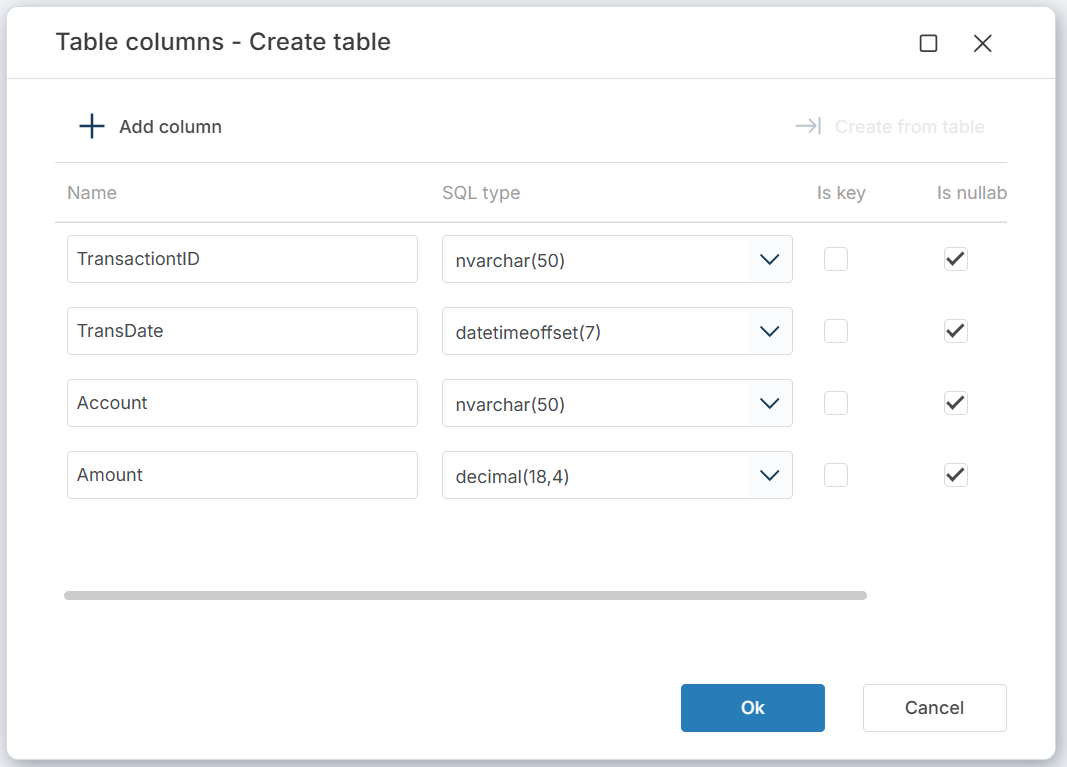
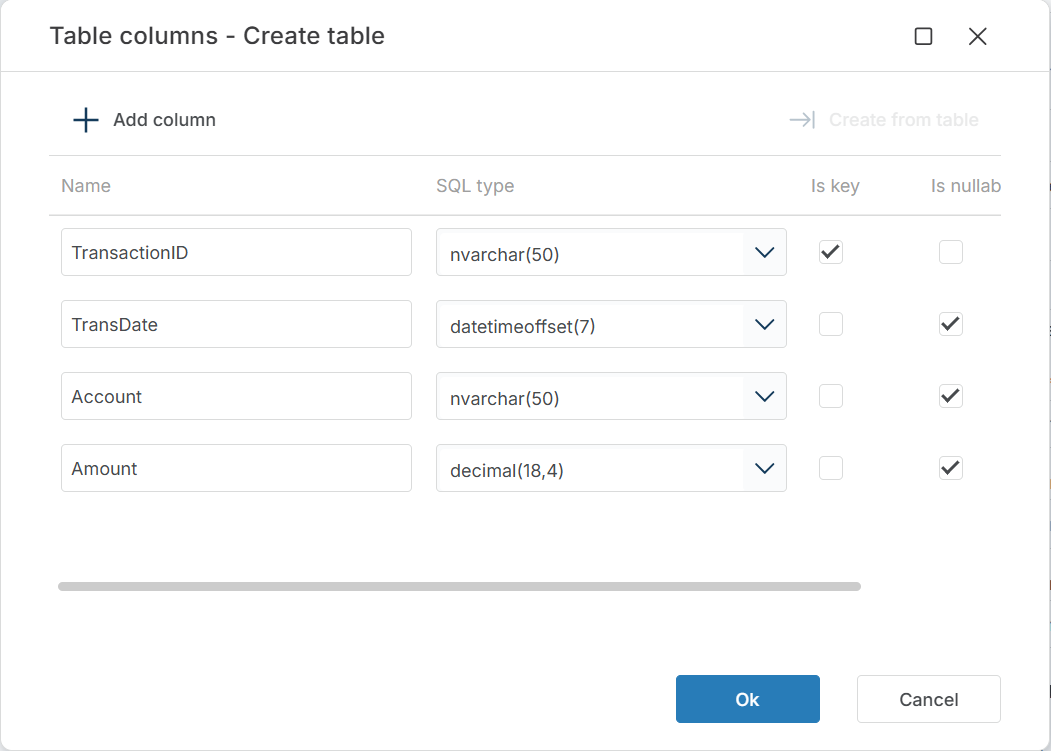
correction after reviev

diff --git a/articles/flow/actions/sql-server/merge-tables.md b/articles/flow/actions/sql-server/merge-tables.md
@@ -49,10 +49,41 @@ This flow runs a full staging cycle. [Create Table from Source](./create-table-f
 
 ### Merge configuration
 
-Click the edit icon next to **Merge configuration** to open the configuration editor.
+Click the edit icon next to **Merge configuration** to open the configuration editor. The editor has three tabs:
 
-<!-- TODO: Add screenshot of the Merge configuration dialog and document its fields (match keys, WHEN MATCHED action, WHEN NOT MATCHED BY TARGET action, WHEN NOT MATCHED BY SOURCE action). -->
+#### Conditions
 
+Defines how rows are matched between source and target. Each condition pairs a target column with a source column. Rows where all conditions match are considered the same record.
+
+Click **+ Add condition** to define match keys manually, or click **Create from target key columns** to generate conditions from the target table's primary key.
+
+![Merge configuration Conditions tab showing OrderId matched between target and source columns](../../../../images/flow/merge-configuration-conditions.png)
+
+#### Columns
+
+Defines which columns are included in the merge and which are updated when a match is found. Each entry maps a target column to a source column. The **Update** checkbox controls whether the column is overwritten when the row already exists in the target.
+
+Click **+ Add column** to define mappings manually, or click **Create from target table** to generate the column list from the target table schema.
+
+> [!TIP]
+> Leave **Update** unchecked for key columns — updating the column you match on causes unexpected results.
+
+![Merge configuration Columns tab showing OrderId, CustomerId, Amount, and OrderDate with Update checked on non-key columns](../../../../images/flow/merge-configuration-columns.png)
+
+#### Settings
+
+Controls what happens for each of the three merge cases:
+
+| Setting | Default | Description |
+|---------|---------|-------------|
+| **Insert when not in target table** | ☑ | Inserts source rows that have no match in the target. Corresponds to `WHEN NOT MATCHED BY TARGET THEN INSERT`. |
+| **Update when already in target table** | ☑ | Updates target rows that match a source row. Only columns with **Update** checked in the Columns tab are overwritten. Corresponds to `WHEN MATCHED THEN UPDATE`. |
+| **Delete when in target table, but not in source table/view** | ☐ | Deletes target rows that have no corresponding source row. Corresponds to `WHEN NOT MATCHED BY SOURCE THEN DELETE`. |
+
+> [!WARNING]
+> Enabling **Delete when in target table, but not in source table/view** removes target rows that are missing from the source. If the source contains only a partial data set, this deletes rows that should be kept. Use only when the source represents the complete data set.
+
+![Merge configuration Settings tab showing Insert and Update checked, Delete unchecked](../../../../images/flow/merge-configuration-settings.png)
 <br/>
 
 ## Returns

diff --git a/articles/flow/actions/sql-server/create-table-from-source.md b/articles/flow/actions/sql-server/create-table-from-source.md
@@ -8,13 +8,13 @@ Use this to create staging, backup, or snapshot tables that match a source schem
 
 - To create a staging table that mirrors a production table's schema before loading data into it.
 - To set up empty archive or snapshot tables with the same structure as the source, so data can be inserted later.
-- To replicate a table schema across databases when combined with a dynamic connection.
+
 
 ## How it works
 
 - **Input**: A source table (or view) name and a target table name, both on the same connection.
 - **Processing**: Reads the schema of the source table and creates the target table with matching columns and types. Optionally copies the primary key, foreign keys, and indexes. If **Replace existing table** is checked and the target already exists, the existing table is dropped and recreated. If unchecked and the target exists, the action raises an error.
-- **Output**: No return value. The target table is created as a side effect.
+- **Output**: No return value. The target table is created.
 
 > [!WARNING]
 > When **Replace existing table** is checked, the existing target table and all its data are dropped before the new table is created. This is irreversible.
@@ -47,7 +47,7 @@ This flow runs a full staging cycle. **Create Orders_Staging from Orders** clone
 
 ## Returns
 
-No return value. The action creates the target table as a side effect.
+No return value. The action creates the target table.
 
 ## See also
 

diff --git a/articles/flow/actions/sql-server/create-table.md b/articles/flow/actions/sql-server/create-table.md
@@ -53,19 +53,11 @@ Each column has four fields:
 
 ![Column definition dialog showing four columns — TransactionID, TransDate, Account, and Amount — with the Add column and Create from table options at the top](../../../../images/flow/create-table-column-definitions.png)
 
-#### Advanced
-
-Switch to the **Advanced** tab to define the table schema as a C# type definition instead of using the visual column editor. Set **Format** to `CSharp` and write the type definition in the code editor.
-
-
-
 <br/>
-
-
 
 ## Returns
 
-No return value. The action creates the table as a side effect. If the table already exists, the action completes successfully without changes.
+No return value. The action creates the table. If the table already exists, the action completes successfully without changes.
 
 ## See also
 

diff --git a/articles/flow/actions/sql-server/delete-table.md b/articles/flow/actions/sql-server/delete-table.md
@@ -44,7 +44,7 @@ This flow runs a full staging cycle. [Create Table from Source](./create-table-f
 
 ## Returns
 
-No return value. The action drops the table as a side effect.
+No return value. The action drops the table.
 
 ## See also
 
